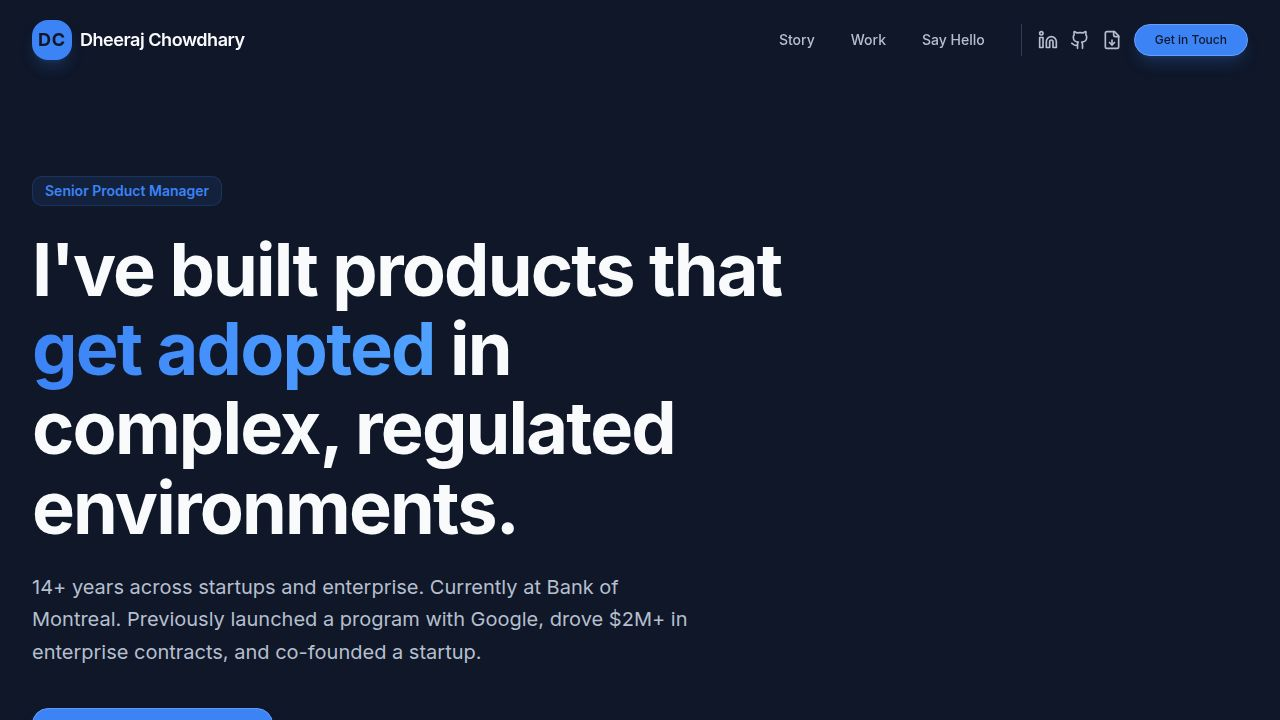
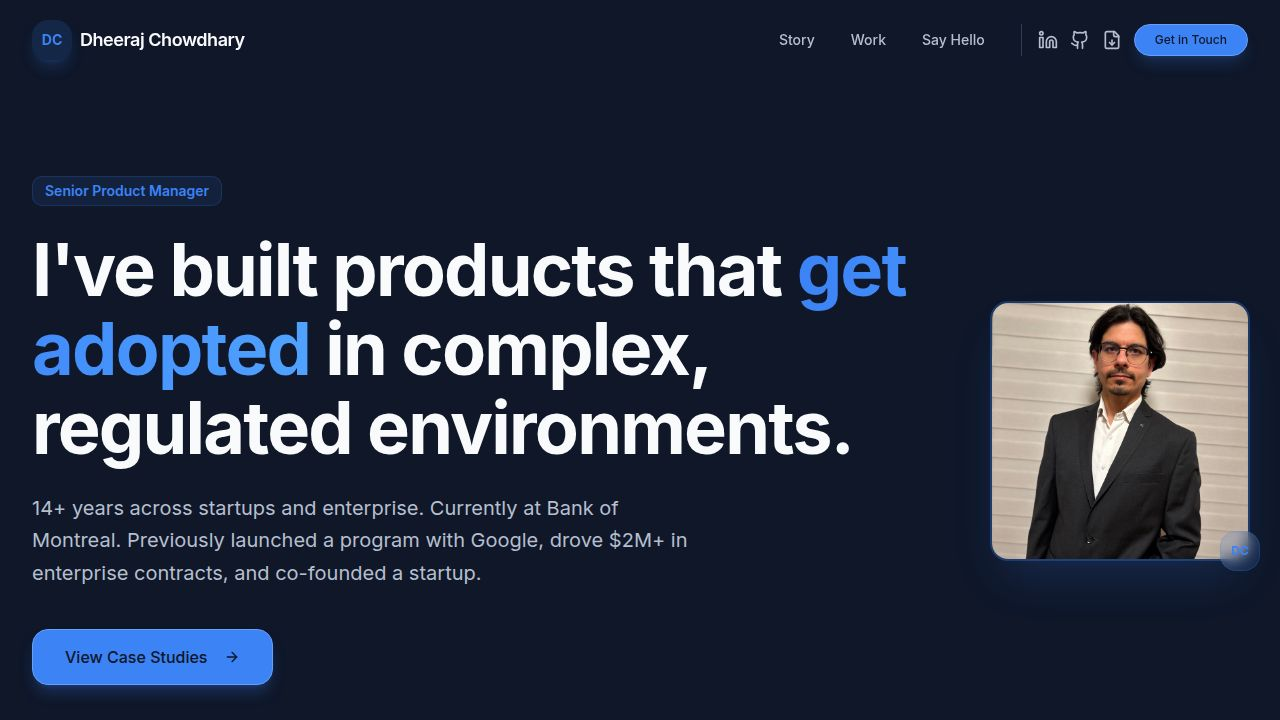
Task #4: Hero headshot placement
Changes made:
- Home.tsx hero: Restructured from single-column to flex layout. Headshot now sits to the right of the text block on desktop and above the badge/headline on mobile using flexbox order utilities (order-first md:order-last). Styled with rounded-2xl, ring-2 ring-primary/30, and shadow-2xl shadow-primary/20. Small DC initials badge added as a decorative overlay on the photo.
- Layout.tsx navbar: Replaced <img> headshot thumbnail with DC initials box (w-10 h-10 rounded-xl bg-primary/15). Same hover scale animation retained.
- Layout.tsx footer: Also had headshot — replaced with matching DC initials box (w-8 h-8 rounded-lg).
- About.tsx: Removed headshot image block (was w-32 h-32 centered above the quote). Quote block now follows directly after the h1 heading.

Headshot now lives in exactly one place: the hero section.
Build: clean (no errors).

diff --git a/artifacts/portfolio/src/pages/Home.tsx b/artifacts/portfolio/src/pages/Home.tsx
@@ -144,28 +144,49 @@ export default function Home() {
         </div>
 
         <div className="max-w-7xl mx-auto px-4 sm:px-6 lg:px-8 relative z-10">
-          <motion.div initial="hidden" animate="show" variants={container} className="max-w-3xl">
-            <motion.div variants={item} className="mb-6 flex items-center gap-3">
-              <Badge variant="outline" className="px-3 py-1 text-sm bg-primary/10 text-primary border-primary/20">
-                Senior Product Manager
-              </Badge>
+          <motion.div initial="hidden" animate="show" variants={container} className="flex flex-col md:flex-row md:items-center gap-10 md:gap-16">
+
+            {/* Headshot — top on mobile, right on desktop */}
+            <motion.div variants={item} className="order-first md:order-last flex justify-center md:justify-end shrink-0">
+              <div className="relative">
+                <div className="w-44 h-44 md:w-64 md:h-64 rounded-2xl overflow-hidden ring-2 ring-primary/30 shadow-2xl shadow-primary/20">
+                  <img
+                    src={`${import.meta.env.BASE_URL}images/headshot.jpeg`}
+                    alt="Dheeraj Chowdhary"
+                    className="w-full h-full object-cover"
+                  />
+                </div>
+                <div className="absolute -bottom-3 -right-3 w-10 h-10 rounded-xl bg-primary/15 border border-primary/20 backdrop-blur-sm flex items-center justify-center">
+                  <span className="text-xs font-bold text-primary">DC</span>
+                </div>
+              </div>
             </motion.div>
 
-            <motion.h1 variants={item} className="text-5xl sm:text-6xl lg:text-7xl font-bold tracking-tight leading-[1.1] mb-6 text-foreground">
-              I've built products that <span className="text-transparent bg-clip-text bg-gradient-to-r from-primary to-blue-400">get adopted</span> in complex, regulated environments.
-            </motion.h1>
+            {/* Text block — below image on mobile, left on desktop */}
+            <div className="order-last md:order-first flex-1">
+              <motion.div variants={item} className="mb-6 flex items-center gap-3">
+                <Badge variant="outline" className="px-3 py-1 text-sm bg-primary/10 text-primary border-primary/20">
+                  Senior Product Manager
+                </Badge>
+              </motion.div>
 
-            <motion.p variants={item} className="text-xl text-muted-foreground mb-10 leading-relaxed max-w-2xl">
-              14+ years across startups and enterprise. Currently at Bank of Montreal. Previously launched a program with Google, drove $2M+ in enterprise contracts, and co-founded a startup.
-            </motion.p>
+              <motion.h1 variants={item} className="text-5xl sm:text-6xl lg:text-7xl font-bold tracking-tight leading-[1.1] mb-6 text-foreground">
+                I've built products that <span className="text-transparent bg-clip-text bg-gradient-to-r from-primary to-blue-400">get adopted</span> in complex, regulated environments.
+              </motion.h1>
 
-            <motion.div variants={item} className="flex flex-col sm:flex-row gap-4">
-              <Button asChild size="lg" className="rounded-xl text-base px-8 h-14 shadow-lg shadow-primary/25 hover:-translate-y-1 transition-all duration-300">
-                <a href="#case-studies" onClick={(e) => { e.preventDefault(); document.getElementById("case-studies")?.scrollIntoView({ behavior: "smooth" }); }}>
-                  View Case Studies <ArrowRight className="w-5 h-5 ml-2" />
-                </a>
-              </Button>
-            </motion.div>
+              <motion.p variants={item} className="text-xl text-muted-foreground mb-10 leading-relaxed max-w-2xl">
+                14+ years across startups and enterprise. Currently at Bank of Montreal. Previously launched a program with Google, drove $2M+ in enterprise contracts, and co-founded a startup.
+              </motion.p>
+
+              <motion.div variants={item} className="flex flex-col sm:flex-row gap-4">
+                <Button asChild size="lg" className="rounded-xl text-base px-8 h-14 shadow-lg shadow-primary/25 hover:-translate-y-1 transition-all duration-300">
+                  <a href="#case-studies" onClick={(e) => { e.preventDefault(); document.getElementById("case-studies")?.scrollIntoView({ behavior: "smooth" }); }}>
+                    View Case Studies <ArrowRight className="w-5 h-5 ml-2" />
+                  </a>
+                </Button>
+              </motion.div>
+            </div>
+
           </motion.div>
         </div>
       </section>

diff --git a/artifacts/portfolio/src/components/Layout.tsx b/artifacts/portfolio/src/components/Layout.tsx
@@ -65,11 +65,9 @@ export default function Layout({ children }: LayoutProps) {
       >
         <div className="max-w-7xl mx-auto px-4 sm:px-6 lg:px-8 flex justify-between items-center">
           <Link href="/" className="group flex items-center gap-2 z-50">
-            <img
-              src={`${import.meta.env.BASE_URL}images/headshot.jpeg`}
-              alt="Dheeraj Chowdhary"
-              className="w-10 h-10 rounded-xl object-cover shadow-lg shadow-primary/20 group-hover:scale-105 transition-transform duration-300"
-            />
+            <div className="w-10 h-10 rounded-xl bg-primary/15 flex items-center justify-center text-sm font-bold text-primary shadow-lg shadow-primary/20 group-hover:scale-105 transition-transform duration-300">
+              DC
+            </div>
             <span className="font-semibold text-lg tracking-tight hidden sm:block">
               Dheeraj Chowdhary
             </span>
@@ -204,11 +202,9 @@ export default function Layout({ children }: LayoutProps) {
       <footer className="border-t border-border mt-20 py-12 bg-card/30">
         <div className="max-w-7xl mx-auto px-4 sm:px-6 lg:px-8 flex flex-col md:flex-row justify-between items-center gap-6">
           <div className="flex items-center gap-3">
-            <img
-              src={`${import.meta.env.BASE_URL}images/headshot.jpeg`}
-              alt="Dheeraj Chowdhary"
-              className="w-8 h-8 rounded-lg object-cover"
-            />
+            <div className="w-8 h-8 rounded-lg bg-primary/15 flex items-center justify-center text-xs font-bold text-primary">
+              DC
+            </div>
             <span className="font-semibold text-foreground">Dheeraj Chowdhary</span>
           </div>
           <p className="text-sm text-muted-foreground text-center md:text-left">

diff --git a/artifacts/portfolio/src/pages/About.tsx b/artifacts/portfolio/src/pages/About.tsx
@@ -29,14 +29,6 @@ export default function About() {
           <motion.div variants={item} className="mb-16">
             <h1 className="text-4xl md:text-5xl font-bold tracking-tight mb-6 text-foreground">My Story</h1>
 
-            <div className="mb-8 flex justify-center">
-              <img
-                src={`${import.meta.env.BASE_URL}images/headshot.jpeg`}
-                alt="Dheeraj Chowdhary"
-                className="w-32 h-32 rounded-2xl object-cover shadow-lg border-2 border-primary/20"
-              />
-            </div>
-
             <div className="p-6 md:p-8 rounded-2xl bg-primary/5 border border-primary/20 mb-8 relative overflow-hidden">
               <Quote className="absolute -top-4 -left-4 w-24 h-24 text-primary/10 rotate-180" />
               <p className="text-xl md:text-2xl font-medium text-foreground leading-relaxed relative z-10">
